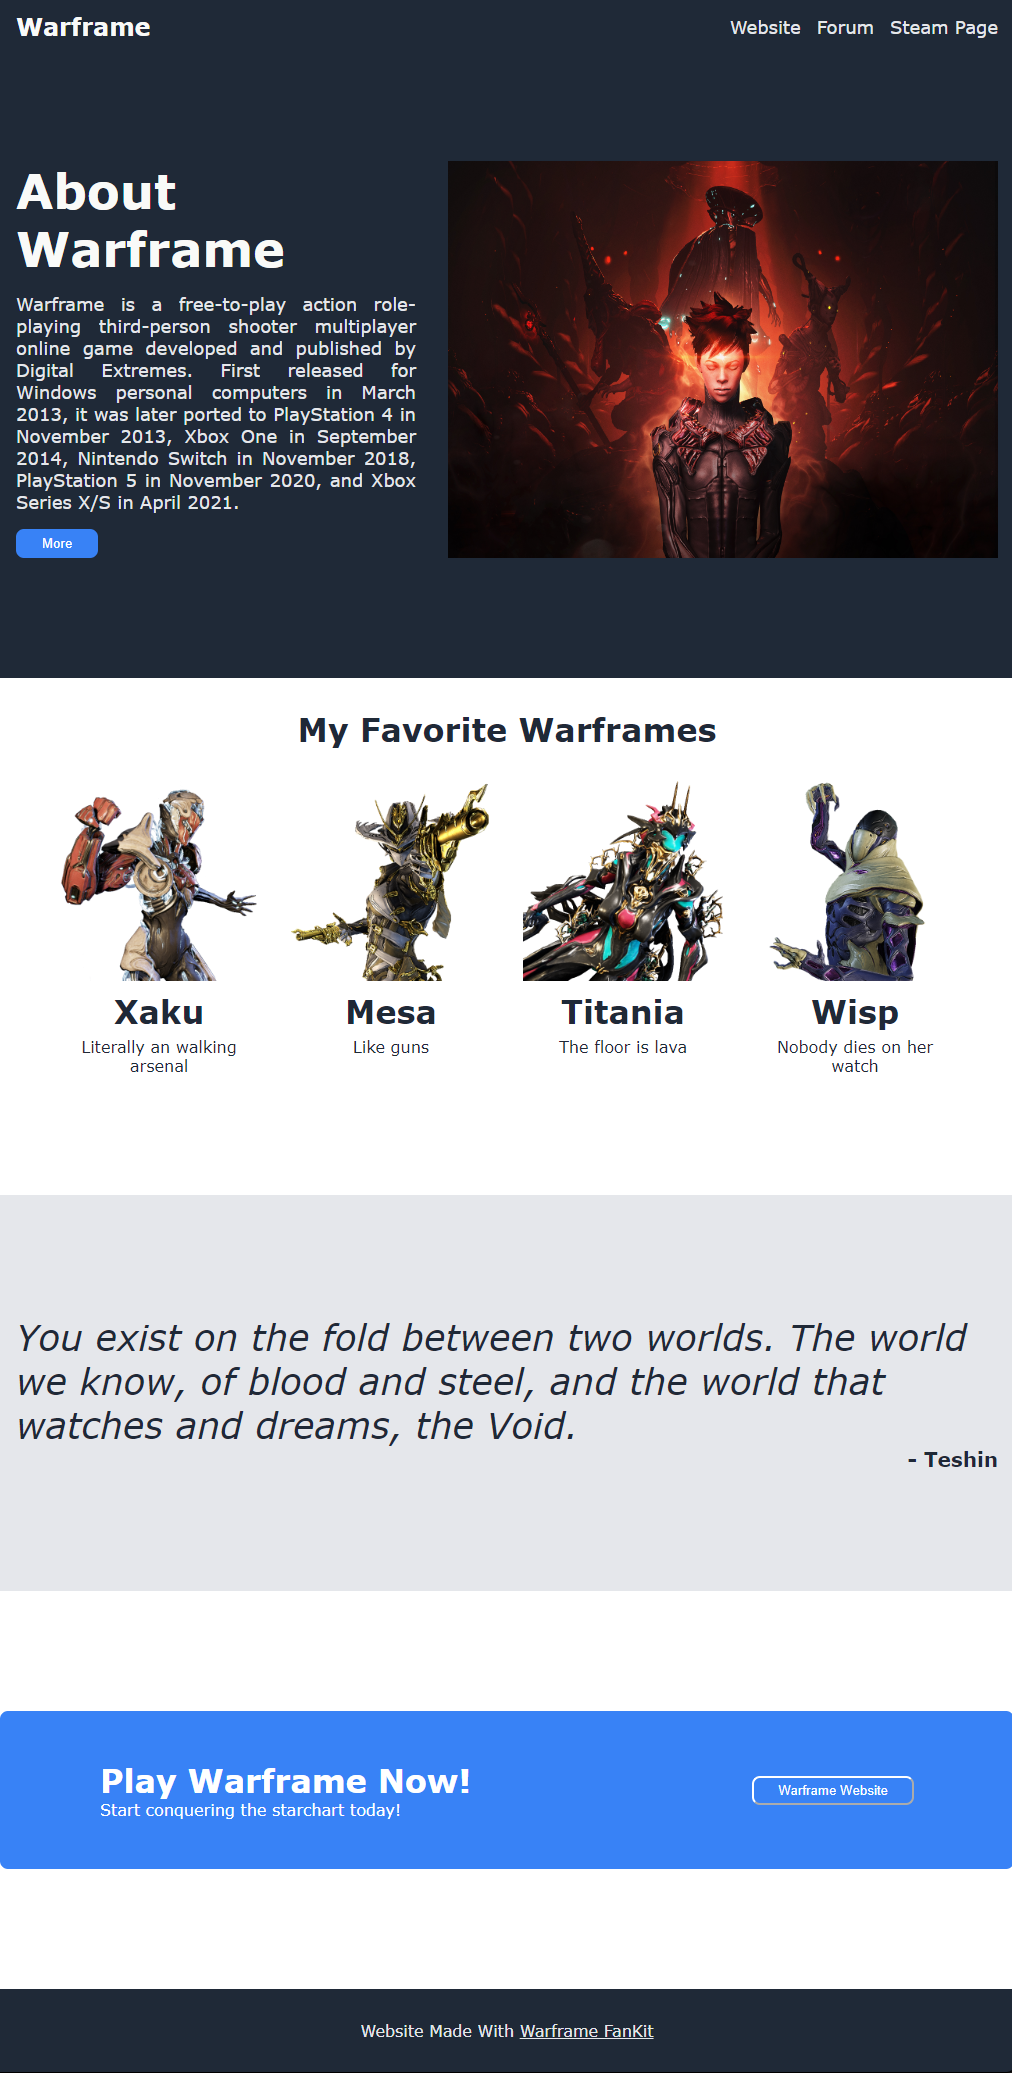
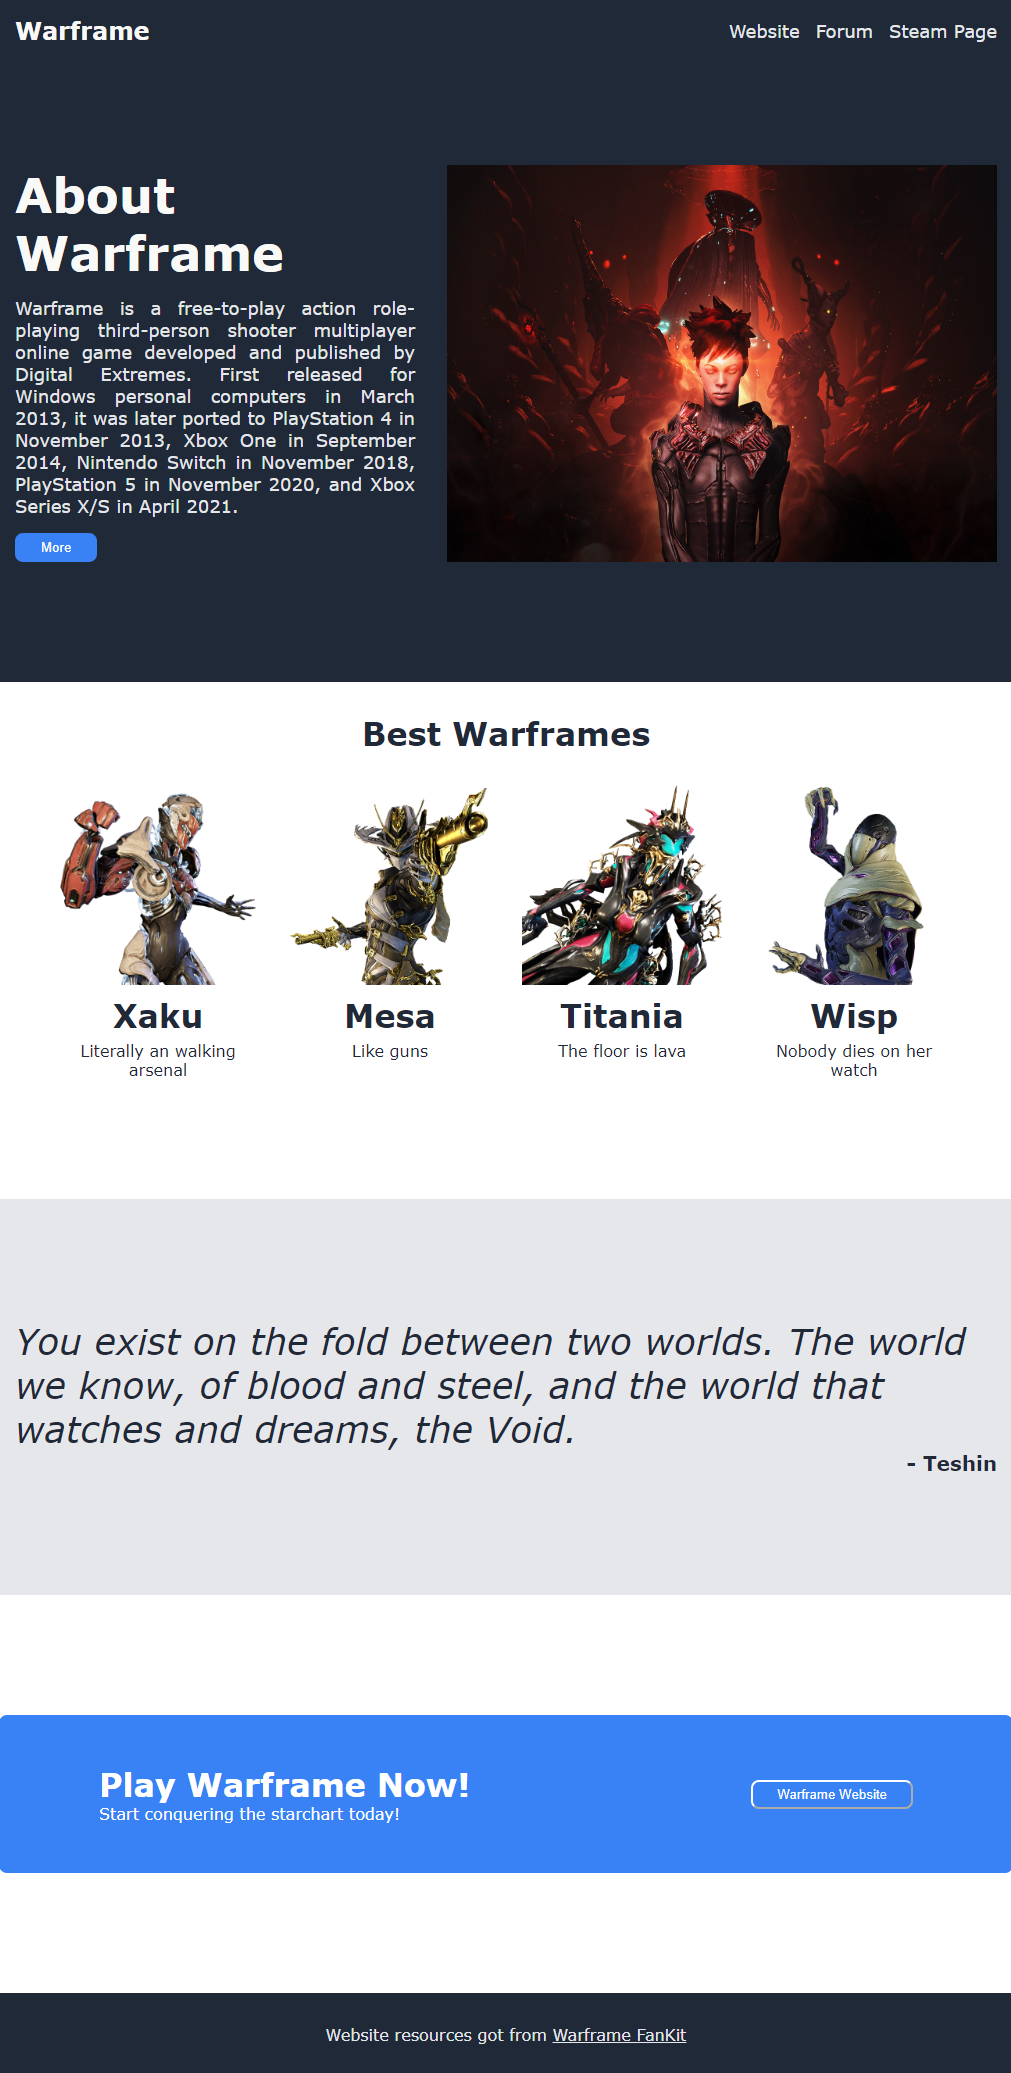
Update ReadmeMain image and page texts

diff --git a/index.html b/index.html
@@ -38,7 +38,7 @@
 
     <div class="cards-content-wrapper">
         <div class="cards-content">
-            <h1 class="title">My Favorite Warframes</h1>
+            <h1 class="title">Best Warframes</h1>
 
             <div class="cards-container">
                 <div class="card">
@@ -98,7 +98,7 @@
 
     <div class="footer-wrapper">
         <footer>
-            <p>Website Made With 
+            <p>Website resources got from 
                 <a href="https://forums.warframe.com/topic/676590-updated-fan-kit-new-link/" target="_blank">Warframe FanKit</a></p>
         </footer>
     </div>
